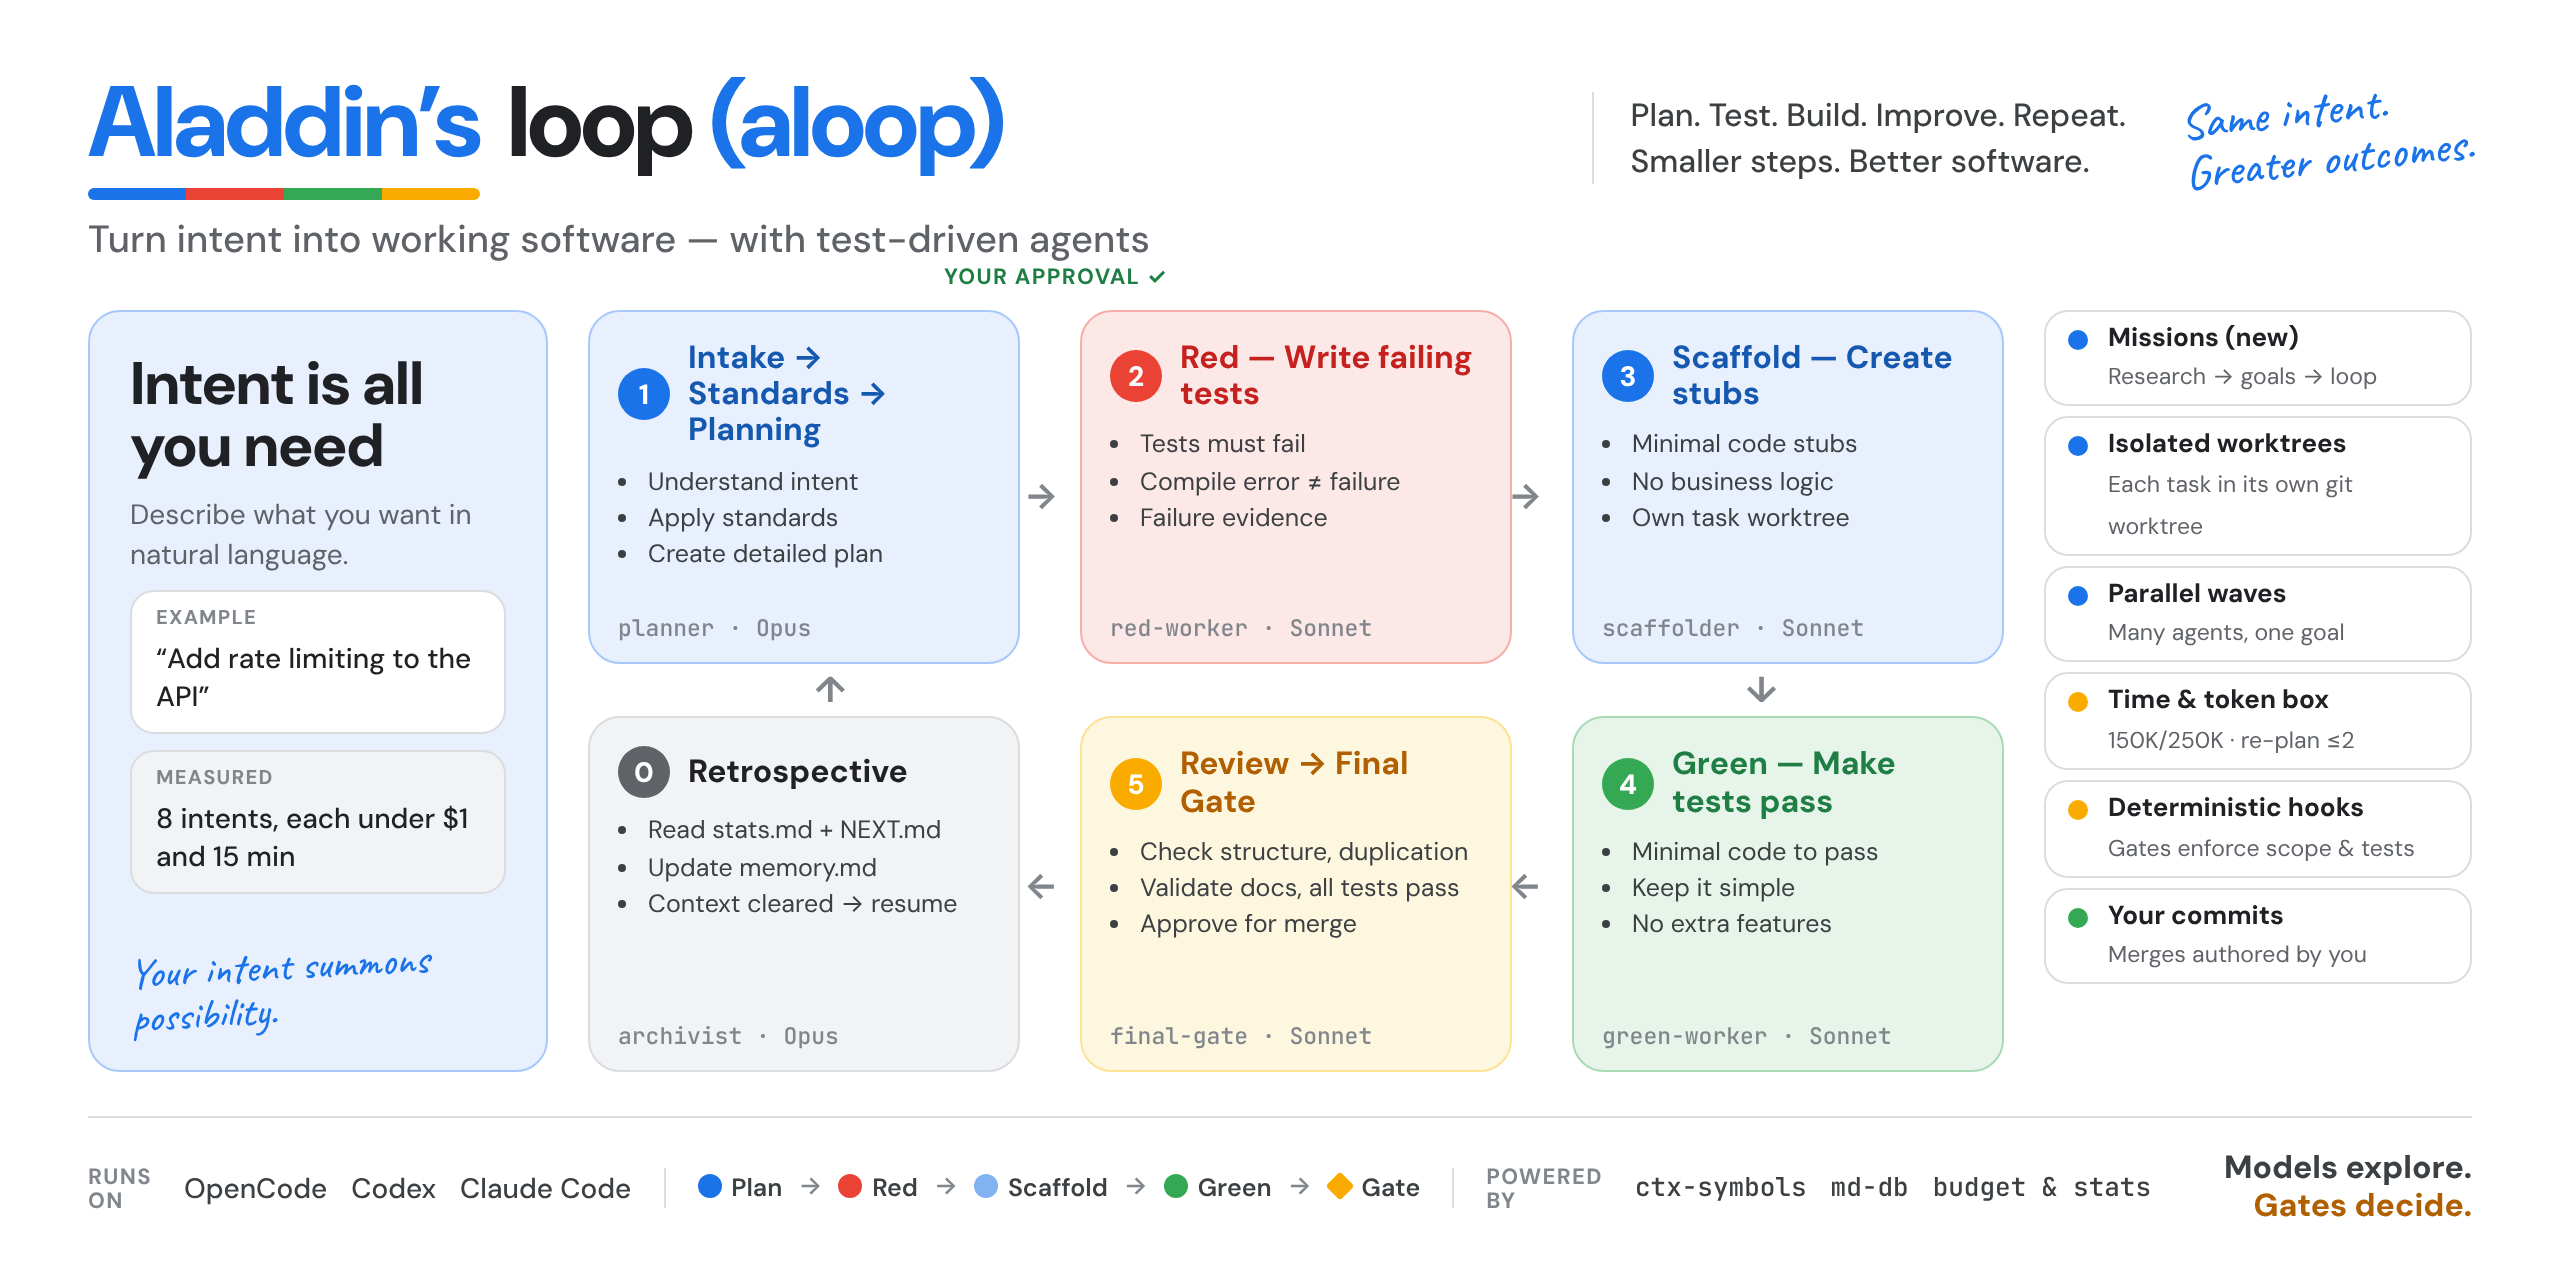
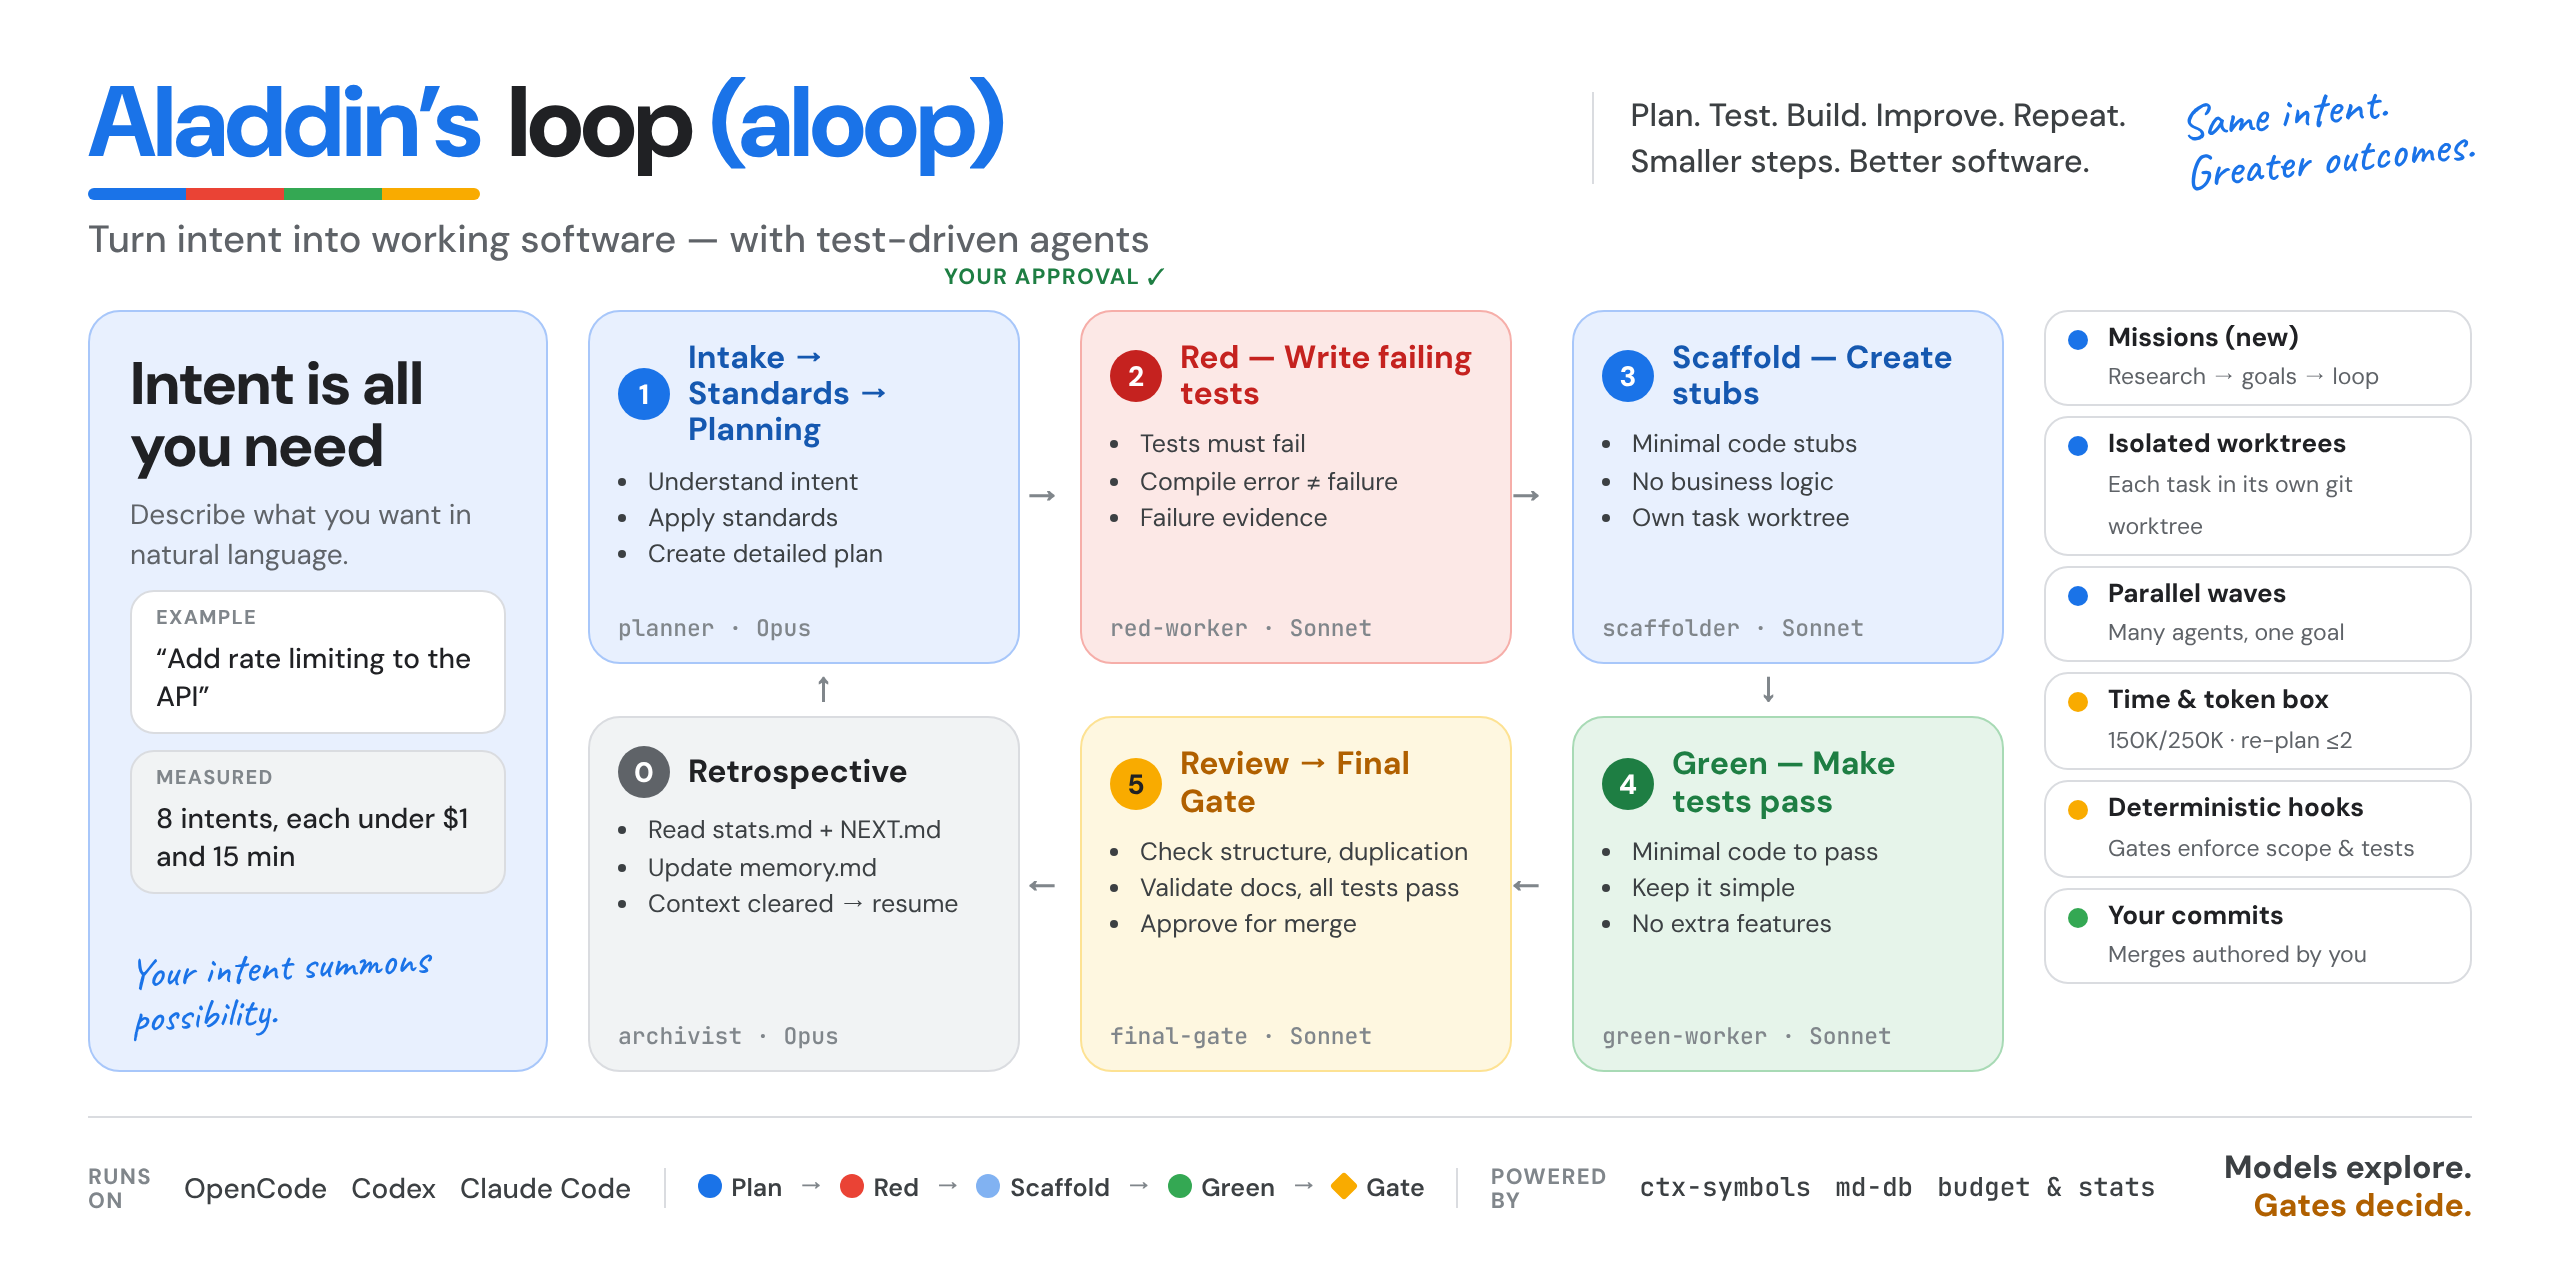
Brand review fixes: no emoji left, disc and card contrast, exact bar width, pinned symbol fonts
From an adversarial review of the rebrand:
- README: the last emoji (an hourglass on "next") becomes →. readme.test.py
  now fails on any Emoji_Presentation code point, so the rule holds.
- Social preview: white numbers no longer sit on core red, green or gold
  (3.92, 3.06, 1.93:1): the red and green discs take the dark variants
  (5.80, 5.10) and the gold disc takes ink (8.32). check_palette checks
  these pairs.
- Site: the light card panel is white, the design system's plain card, so
  the gold-dark SCAFFOLD title is 4.65:1 instead of 4.41:1.
- Wordmark: the loop bar now includes the trailing letter-spacing, as the
  CSS it mirrors does (0.03 em narrower).
- render.mjs: file URLs come from pathToFileURL / Path.as_uri, and the
  render fails if any text falls back to a system font. Arrows, ● ◆ ✓ and
  ≠ ≤ come from pinned Noto faces, so the PNGs are byte-identical on rerun.

Claude-Session: https://claude.ai/code/session_019o44PEkQ4qiLGMEes1QTKx

diff --git a/docs/brand/design-system/social-preview.html b/docs/brand/design-system/social-preview.html
@@ -19,9 +19,9 @@ h1{margin:0;font:800 50px/1 var(--font-sans);letter-spacing:-.03em}h1 span{color
 .c b{font:700 16px/1.15 var(--font-sans)}.c ul{margin:0;padding:0 0 0 15px;font:400 12.5px/1.45 var(--font-sans);color:var(--text-strong)}
 .who{margin-top:auto;font:500 11.5px/1 var(--font-mono);color:var(--text-muted)}
 .blue{background:var(--intent-surface);border-color:var(--intent-border)}.blue .n{background:var(--aladdin-blue)}.blue b{color:var(--blue-dark)}
-.red{background:var(--red-surface);border-color:var(--red-border)}.red .n{background:var(--aladdin-red)}.red b{color:var(--red-dark)}
-.green{background:var(--green-surface);border-color:var(--green-border)}.green .n{background:var(--aladdin-green)}.green b{color:var(--green-dark)}
-.gold{background:var(--gate-surface);border-color:var(--gate-border)}.gold .n{background:var(--aladdin-gold)}.gold b{color:var(--gold-dark)}
+.red{background:var(--red-surface);border-color:var(--red-border)}.red .n{background:var(--red-dark)}.red b{color:var(--red-dark)}
+.green{background:var(--green-surface);border-color:var(--green-border)}.green .n{background:var(--green-dark)}.green b{color:var(--green-dark)}
+.gold{background:var(--gate-surface);border-color:var(--gate-border)}.gold .n{background:var(--aladdin-gold);color:var(--text-primary)}.gold b{color:var(--gold-dark)}
 .gray{background:var(--surface-neutral);border-color:var(--border)}.gray .n{background:var(--text-secondary)}
 .ar{position:absolute;font:700 18px/1 var(--font-sans);color:var(--text-muted)}
 .feat{display:flex;flex-direction:column;gap:5px}.ft{display:flex;gap:10px;align-items:flex-start;padding:5px 11px;border:1px solid var(--border);border-radius:12px}

diff --git a/docs/index.html b/docs/index.html
@@ -21,7 +21,7 @@
 <style>
   /* the Aladdin design system (docs/brand/design-system): blue is intent, red is proof something is
      missing, green is proof it holds, gold is the gate; text in those roles uses the dark variants */
-  :root { --bg:#FFFFFF; --panel:#F8F9FA; --ink:#202124; --muted:#5F6368; --blue:#1A73E8; --gold:#B06000; --red:#C5221F; --green:#1E7E43; --line:#DADCE0; --term:#202124; }
+  :root { --bg:#FFFFFF; --panel:#FFFFFF; --ink:#202124; --muted:#5F6368; --blue:#1A73E8; --gold:#B06000; --red:#C5221F; --green:#1E7E43; --line:#DADCE0; --term:#202124; }
   @media (prefers-color-scheme: dark) { :root { --bg:#202124; --panel:#28292C; --ink:#E8EAED; --muted:#9AA0A6; --blue:#8AB4F8; --gold:#FDD663; --red:#F28B82; --green:#81C995; --line:#3C4043; --term:#17181A; } }
   * { box-sizing:border-box }
   body { margin:0; background:var(--bg); color:var(--ink); font:16px/1.55 'DM Sans',ui-sans-serif,system-ui,-apple-system,'Segoe UI',sans-serif }

diff --git a/docs/brand/gen_brand.py b/docs/brand/gen_brand.py
@@ -33,17 +33,23 @@ TRACK = -0.03                            # display tracking, em
 
 def check_palette():
     """Every text pair the brand uses, at the WCAG level its usage note names. The core red, green
-    and gold stay exact (the design system's own values) and carry no text: text in those roles
-    uses the *-dark variants, which are checked here."""
+    and gold stay exact (the design system's own values) and carry no white text: text in those
+    roles uses the *-dark variants, white numbers sit on blue, red-dark or green-dark discs, and a
+    gold disc takes ink."""
     pairs = [
+        # ink and links on the canvas
         ("text-primary", "background", 4.5), ("text-strong", "background", 4.5), ("text-secondary", "background", 4.5),
-        ("text-secondary", "surface", 4.5), ("text-muted", "background", 3.0),
-        ("aladdin-blue", "background", 4.5), ("blue-dark", "intent-surface", 4.5), ("red-dark", "red-surface", 4.5),
-        ("gold-dark", "background", 4.5),
+        ("text-secondary", "surface", 4.5), ("text-muted", "background", 3.0), ("aladdin-blue", "background", 4.5),
+        # the *-dark text variants, on white and on their tints
+        ("gold-dark", "background", 4.5), ("blue-dark", "intent-surface", 4.5), ("red-dark", "red-surface", 4.5),
         # 4.49 and 4.34: kept exact, so on their tints these two carry bold titles only (3:1)
         ("green-dark", "green-surface", 3.0), ("gold-dark", "gate-surface", 3.0),
-        ("text-on-color", "aladdin-blue", 4.5), ("term-fg", "term-bg", 4.5), ("term-muted", "term-bg", 4.5),
-        ("term-red", "term-bg", 4.5), ("term-green", "term-bg", 4.5), ("term-gold", "term-bg", 4.5), ("term-blue", "term-bg", 4.5),
+        # text on colour: the on-blue variant and the numbered phase discs
+        ("text-on-color", "aladdin-blue", 4.5), ("text-on-color", "red-dark", 4.5), ("text-on-color", "green-dark", 4.5),
+        ("text-on-color", "text-secondary", 4.5), ("text-primary", "aladdin-gold", 4.5),
+        # the terminal palette (the site's dark mode and code blocks)
+        ("term-fg", "term-bg", 4.5), ("term-muted", "term-bg", 4.5), ("term-red", "term-bg", 4.5),
+        ("term-green", "term-bg", 4.5), ("term-gold", "term-bg", 4.5), ("term-blue", "term-bg", 4.5),
     ]
     bad = []
     for fg, bg, lim in pairs:
@@ -117,9 +123,10 @@ def wordmark(x, baseline, size, word_color, colors):
     asc, desc = L.line_metrics("display")
     bar_top = baseline + ((1 - asc + desc) / 2 + 1 / 6) * size
     bar_h = 0.125 * size
+    bar_w = adv + TRACK * size  # CSS letter-spacing follows the last letter too, so the word box ends here
     body = ('<path transform="translate(%g %g)" d="%s" fill="%s"/>' % (x, baseline, p, word_color)
-            + loop_bar(x, bar_top, adv, bar_h, colors))
-    return body, (x + min(bx0, 0), baseline + by0, x + max(bx1, adv), bar_top + bar_h)
+            + loop_bar(x, bar_top, bar_w, bar_h, colors))
+    return body, (x + min(bx0, 0), baseline + by0, x + max(bx1, bar_w), bar_top + bar_h)
 
 
 def wordmark_svg(word_color, colors, ground=None):

diff --git a/docs/brand/_brandlib.py b/docs/brand/_brandlib.py
@@ -7,6 +7,7 @@ Fonts (all SIL OFL 1.1) are fetched once from the npm registry (@fontsource) int
 """
 import io
 import os
+import pathlib
 import re
 import subprocess
 import tarfile
@@ -26,8 +27,17 @@ FONTS = {
     "text": DM_SANS + ({"wght": 500, "opsz": 14},),
     "mono": ("@fontsource/jetbrains-mono", "jetbrains-mono-latin-500-normal.woff2", None),
 }
-# The faces the HTML cards (design-system/*.html) use, served to the renderer from the cache.
-WEB_FONTS = [
+# The faces the HTML cards (design-system/*.html) use, served to the renderer from the cache:
+# (family, weight, npm package, file, unicode-range or None). The latin subsets have no arrows,
+# ≠ ≤ or ● ◆ ✓, so pinned Noto faces join every face for those code points only; otherwise
+# Chromium would take them from whatever system font the machine has (render.mjs refuses that).
+# A joining face must repeat its base face's weight exactly, or Chromium does not merge them.
+SYMBOL_FACES = [
+    ("@fontsource-variable/noto-sans-symbols", "noto-sans-symbols-symbols-wght-normal.woff2", "U+2190-2193"),
+    ("@fontsource/noto-sans-symbols-2", "noto-sans-symbols-2-symbols-400-normal.woff2", "U+25C6,U+25CF,U+2713"),
+    ("@fontsource/noto-sans-math", "noto-sans-math-latin-400-normal.woff2", "U+2260,U+2264"),
+]
+BASE_FACES = [
     ("DM Sans", "100 1000") + DM_SANS,
     ("Caveat", "500", "@fontsource/caveat", "caveat-latin-500-normal.woff2"),
     ("Caveat", "700", "@fontsource/caveat", "caveat-latin-700-normal.woff2"),
@@ -35,6 +45,7 @@ WEB_FONTS = [
     ("JetBrains Mono", "500", "@fontsource/jetbrains-mono", "jetbrains-mono-latin-500-normal.woff2"),
     ("JetBrains Mono", "700", "@fontsource/jetbrains-mono", "jetbrains-mono-latin-700-normal.woff2"),
 ]
+WEB_FONTS = [f + (None,) for f in BASE_FACES] + [(fam, wt) + sym for fam, wt, _, _ in BASE_FACES for sym in SYMBOL_FACES]
 
 
 def tokens():
@@ -142,8 +153,9 @@ def ratio(a, b):
 def render_html(page, out, w, h, scale=1):
     """Screenshot design-system/<page> at w x h CSS px with the cached web fonts, via
     render.mjs (node + playwright + Chromium)."""
-    faces = "".join("@font-face{font-family:'%s';font-weight:%s;src:url('file://%s')}" % (fam, wt, fetch(pkg, fn))
-                    for fam, wt, pkg, fn in WEB_FONTS)
+    faces = "".join("@font-face{font-family:'%s';font-weight:%s;src:url('%s')%s}"
+                    % (fam, wt, pathlib.Path(fetch(pkg, fn)).as_uri(), ";unicode-range:" + ur if ur else "")
+                    for fam, wt, pkg, fn, ur in WEB_FONTS)
     with tempfile.NamedTemporaryFile("w", suffix=".css", delete=False) as css:
         css.write(faces)
     try:

diff --git a/scripts/test/readme.test.py b/scripts/test/readme.test.py
@@ -3,7 +3,8 @@
     python3 scripts/test/readme.test.py
 Checks the section order, that every `aladdin` / `aloop <tool>` command it names exists in
 plugin/bin, that the install lines name the real marketplace and plugin, that every relative
-link resolves, and that every demo time/cost figure is one ROADMAP §0 records.
+link resolves, that every demo time/cost figure is one ROADMAP §0 records, and that it carries
+no emoji (the brand's design system replaces them with ● ◆ ✓ ✕ →).
 """
 import json
 import os
@@ -81,5 +82,15 @@ assert m and int(m.group(1)) == n, "README says %s suites, the Makefile runs %d"
 for g in sorted(set(t for t in re.findall(r"scripts/test/(\S+\.test\.py)", make) if "*" in t)):
     assert "`%s`" % g in readme, "README does not name the Makefile's glob of suites %r" % g
 ok("the README's offline suite count is the Makefile's (%d, plus its globbed suites)" % n)
+
+# 7) no emoji: the Aladdin design system (docs/brand/README.md) uses the glyphs ● ◆ ✓ ✕ → instead.
+# Emoji_Presentation code points: everything from U+1F000 up, the BMP ones listed here, and U+FE0F.
+BMP_EMOJI = ("\u231a\u231b\u23e9-\u23ec\u23f0\u23f3\u25fd\u25fe\u2614\u2615\u2648-\u2653\u267f\u2693\u26a1"
+             "\u26aa\u26ab\u26bd\u26be\u26c4\u26c5\u26ce\u26d4\u26ea\u26f2\u26f3\u26f5\u26fa\u26fd\u2705"
+             "\u270a\u270b\u2728\u274c\u274e\u2753-\u2755\u2757\u2795-\u2797\u27b0\u27bf\u2b1b\u2b1c\u2b50\u2b55")
+emoji = [(i, c) for i, l in enumerate(readme.splitlines(), 1)
+         for c in re.findall("[\U0001F000-\U0010FFFF%s\ufe0f]" % BMP_EMOJI, l)]
+assert not emoji, "emoji in README.md (line, char): %r" % emoji
+ok("no emoji (brand surfaces use the design system's glyphs)")
 
 print("\n%d checks passed" % PASS[0])

diff --git a/docs/brand/README.md b/docs/brand/README.md
@@ -28,9 +28,12 @@ gradients as fills and no coloured glows.
 
 **Contrast** (checked by `check_palette()` in the generator, which exits non-zero on a miss):
 blue on white is 4.51:1, and every `*-dark` text variant on white is at least 4.65:1. The core
-red, green and gold are the design system's exact values and carry graphics, never text. Two tint
-pairs are kept exact at under 4.5:1, so they carry bold titles only: green-dark on its tint
-(4.49:1) and gold-dark on its tint (4.34:1).
+red, green and gold are the design system's exact values and carry no white text. A numbered
+phase disc is white on blue, red-dark or green-dark (4.51, 5.80 and 5.10:1) and ink on gold
+(8.32:1). Two tint pairs are kept exact at under 4.5:1, so they carry bold titles only:
+green-dark on its tint (4.49:1) and gold-dark on its tint (4.34:1). WCAG counts bold text as
+large from 18.66 px, so the OG card's 24 px titles pass; the social preview's 16 px titles are
+just short of AA.
 
 ## The wordmark
 
@@ -72,8 +75,11 @@ The semantic glyphs ● ◆ ✓ ✕ → take their place.
 The social preview is the owner's design. Four changes keep its claims true: the RED card names
 the real agent (`red-worker`), a grey evidence box gives the measured cost (8 intents, each
 under $1 and 15 min in its latest run, from the ledger), the feature list adds the mission
-layer, and the footer no longer breaks words across lines. The genie illustration from the
-earlier infographic is not used; the design system keeps the lamp metaphor light and original.
+layer, and the footer no longer breaks words across lines. One change is for contrast: the red,
+green and gold phase discs take the dark variants or ink, as above. The genie illustration from
+the earlier infographic is not used; the design system keeps the lamp metaphor light and
+original. Arrows and ● ◆ ✓ ≠ ≤ come from pinned Noto faces, and `render.mjs` fails if any text
+falls back to a system font, so the PNGs come out the same on any machine.
 
 ```html
 <link rel="icon" href="brand/favicon.svg" type="image/svg+xml" />

diff --git a/README.md b/README.md
@@ -190,7 +190,7 @@ opt-in) informs goals and is never a gate.
 | Roles and gates | the six fixed roles, their model routes, and two gates (role path guards, artifact checks) | ✓ shipped |
 | Goals → intents | the top gaps become a goal, one Intent Contract per gap, handed to Aladdin | ✓ shipped |
 | Loop and skill | `tick`, a zero-token `due`, the cron line, budget caps, `/aloop:mission` | ✓ shipped |
-| End to end | an offline scripted mission cycle in CI, then a live one | ⏳ next |
+| End to end | an offline scripted mission cycle in CI, then a live one | → next |
 
 ## Agent principles
 
